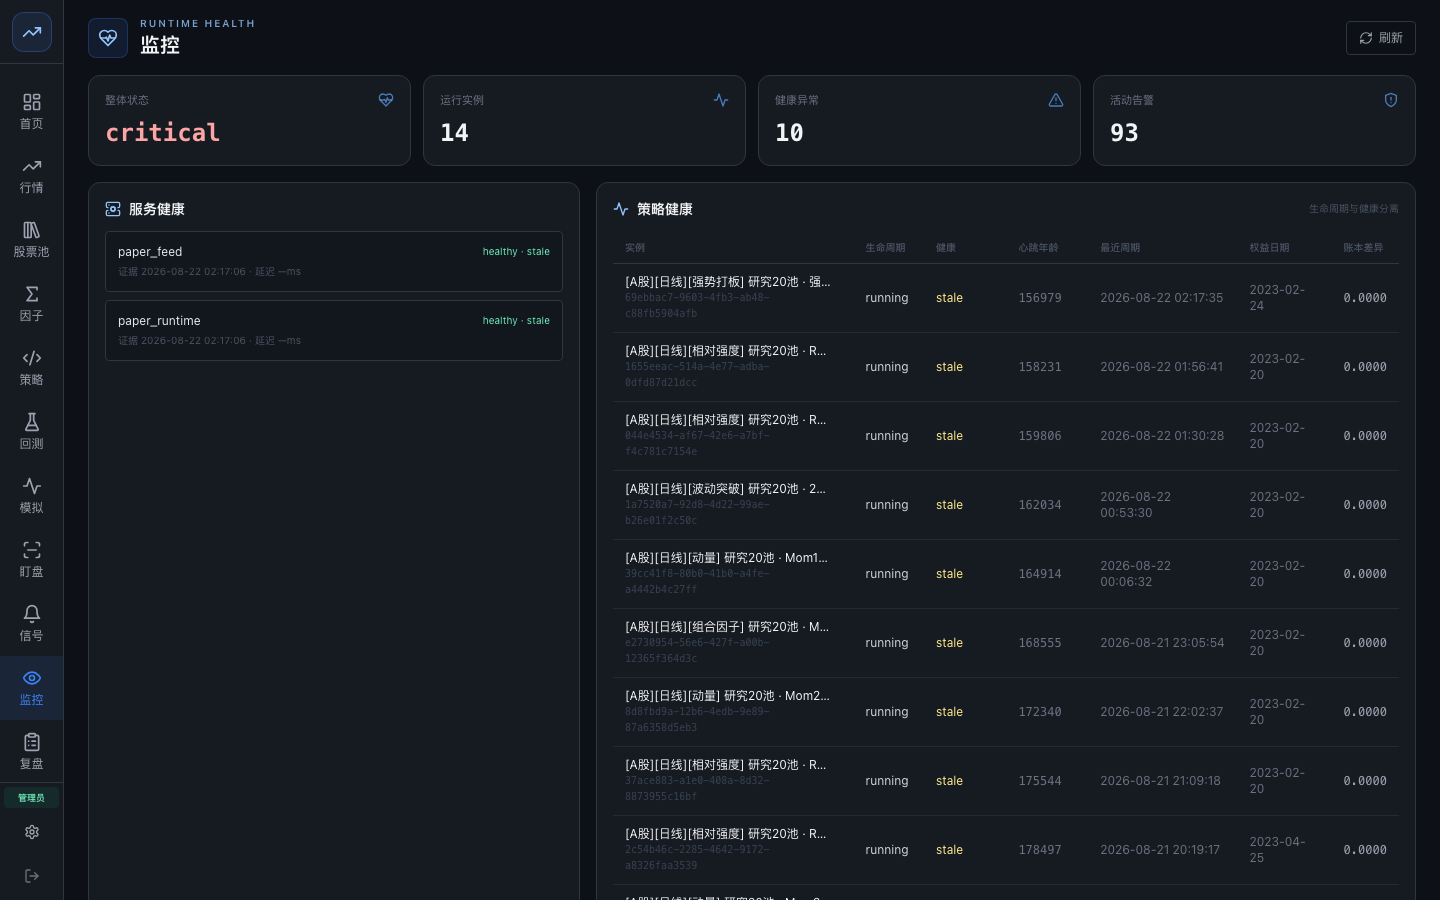
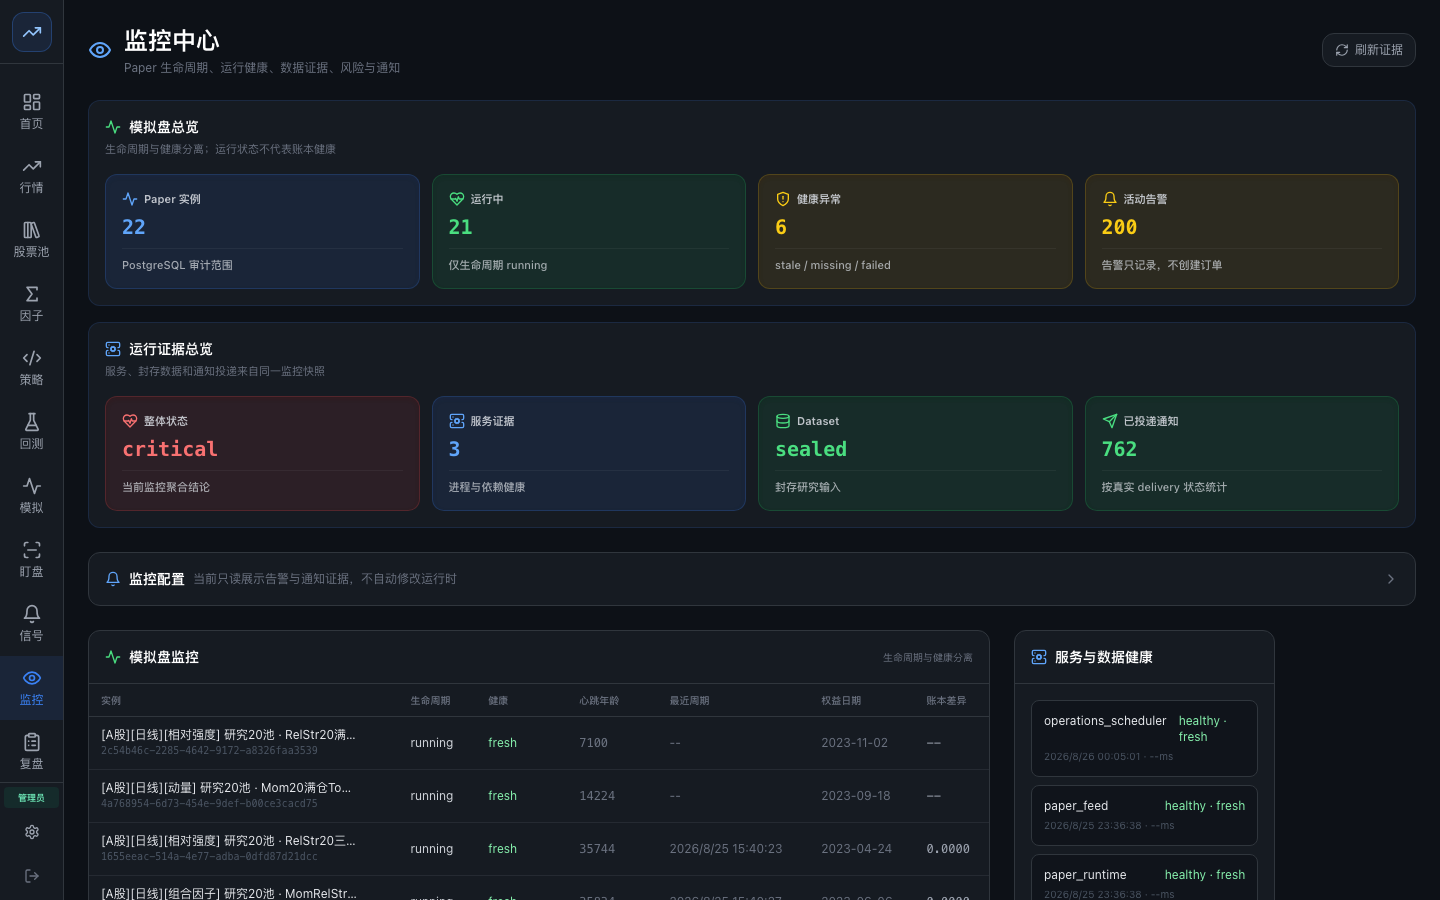
test(rebuild): refresh real UI acceptance evidence

diff --git a/rebuild/capture_production_screenshots.py b/rebuild/capture_production_screenshots.py
@@ -25,25 +25,29 @@ const base = process.env.CAPTURE_BASE;
 const dir = process.env.CAPTURE_OUTPUT;
 const browser = await chromium.launch({ headless: true });
 const context = await browser.newContext();
-const page = await context.newPage();
-await page.goto(base + '/');
-await page.waitForFunction(() =>
+const loginPage = await context.newPage();
+await loginPage.goto(base + '/');
+await loginPage.waitForFunction(() =>
   document.querySelector('[data-testid="main-layout"]') ||
   [...document.querySelectorAll('h1')].some((item) => item.textContent?.includes('登录 StockPro')),
   { timeout: 120000 },
 );
-if (await page.getByRole('heading', { name: '登录 StockPro' }).isVisible()) {
-  await page.getByRole('button', { name: '管理员登录' }).click();
-  await page.getByText('管理员账号').locator('..').locator('input').fill(process.env.STOCKPRO_CAPTURE_USERNAME || 'admin');
-  await page.getByText('密码', { exact: true }).locator('..').locator('input').fill(process.env.STOCKPRO_CAPTURE_PASSWORD || '');
-  await page.getByRole('button', { name: '进入工作台' }).click();
-  await page.getByTestId('main-layout').waitFor({ timeout: 120000 });
+if (await loginPage.getByRole('heading', { name: '登录 StockPro' }).isVisible()) {
+  await loginPage.getByRole('button', { name: '管理员登录' }).click();
+  await loginPage.getByText('管理员账号').locator('..').locator('input').fill(process.env.STOCKPRO_CAPTURE_USERNAME || 'admin');
+  await loginPage.getByText('密码', { exact: true }).locator('..').locator('input').fill(process.env.STOCKPRO_CAPTURE_PASSWORD || '');
+  await loginPage.getByRole('button', { name: '进入工作台' }).click();
+  await loginPage.getByTestId('main-layout').waitFor({ timeout: 120000 });
 }
+await loginPage.close();
 const captures = [];
 for (const [viewport, width, height] of viewports) {
-  await page.setViewportSize({ width, height });
   for (const [slug, route] of routes) {
     console.error(`[capture] ${viewport} ${route}`);
+    // Use a fresh page for every route so chart instances, timers, and listeners
+    // from a previous operator workspace cannot contaminate later captures.
+    const page = await context.newPage();
+    await page.setViewportSize({ width, height });
     const errors = [];
     const writes = [];
     const onConsole = (message) => { if (message.type() === 'error') errors.push(message.text()); };
@@ -55,13 +59,26 @@ for (const [viewport, width, height] of viewports) {
     await page.getByTestId('main-layout').waitFor({ timeout: 120000 });
     await page.locator('[data-operator-page]').waitFor({ timeout: 120000 });
     // Operator pages intentionally poll health/runtime evidence, so networkidle is
-    // not a valid readiness signal. The shell and page contract above are the gates.
+    // not a valid readiness signal. Require the visible loading contract to settle
+    // into either real data or an honest empty/error state before capturing.
+    await page.waitForTimeout(500);
+    await page.waitForFunction(() => {
+      if (document.querySelector('.animate-pulse')) return false;
+      const pending = /(正在加载|加载中|读取中)/;
+      return ![...document.querySelectorAll('body *')].some((element) => {
+        if (!pending.test(element.textContent || '')) return false;
+        const style = getComputedStyle(element);
+        const rect = element.getBoundingClientRect();
+        return style.display !== 'none' && style.visibility !== 'hidden' && rect.width > 0 && rect.height > 0;
+      });
+    }, { timeout: 120000 });
     await page.waitForTimeout(300);
     const file = `${slug}-${viewport}.png`;
     await page.screenshot({ path: `${dir}/${file}`, fullPage: true });
     captures.push({ route, viewport, url: page.url(), artifact: file, captured_at: new Date().toISOString(), duration_ms: Date.now() - started, source_updated_at: null, console_errors: errors, writes });
     page.off('console', onConsole);
     page.off('request', onRequest);
+    await page.close();
   }
 }
 await browser.close();

diff --git a/docs/progress.md b/docs/progress.md
@@ -18,8 +18,10 @@
   连续性通过。真实管理员登录后的 13 路由 × 桌面/390px 验收 2 项通过，API 5xx 与页面异常均为 0。
 - 首轮全仓检查发现同步导入导致首屏 JS 超预算，恢复 BitPro 路由级 lazy loading 后首屏从
   658.0 KiB 降到 355.9 KiB，主包从 391.7 KiB 降到 83.6 KiB。
-- 仍未完成：最终 26 张桌面/移动端截图对照、生产部署与 deployed SHA 验收；本目标尚未关闭，
-  也未推送或部署。
+- 当前提交已重拍 13 路由 × 2 viewport 共 26 张真实截图；采集器要求每页离开骨架和
+  “正在加载/读取中”状态，并隔离每个页面避免图表/定时器污染。清单显示控制台错误 0、
+  业务写请求 0，人工抽检主页、策略和回测均为真实数据或诚实状态。
+- 仍未完成：生产部署与 deployed SHA 验收；本目标尚未关闭，也未推送或部署。
 
 ## 运营闭环恢复 + 7策略晋级模拟盘（2026-08-25）
 
